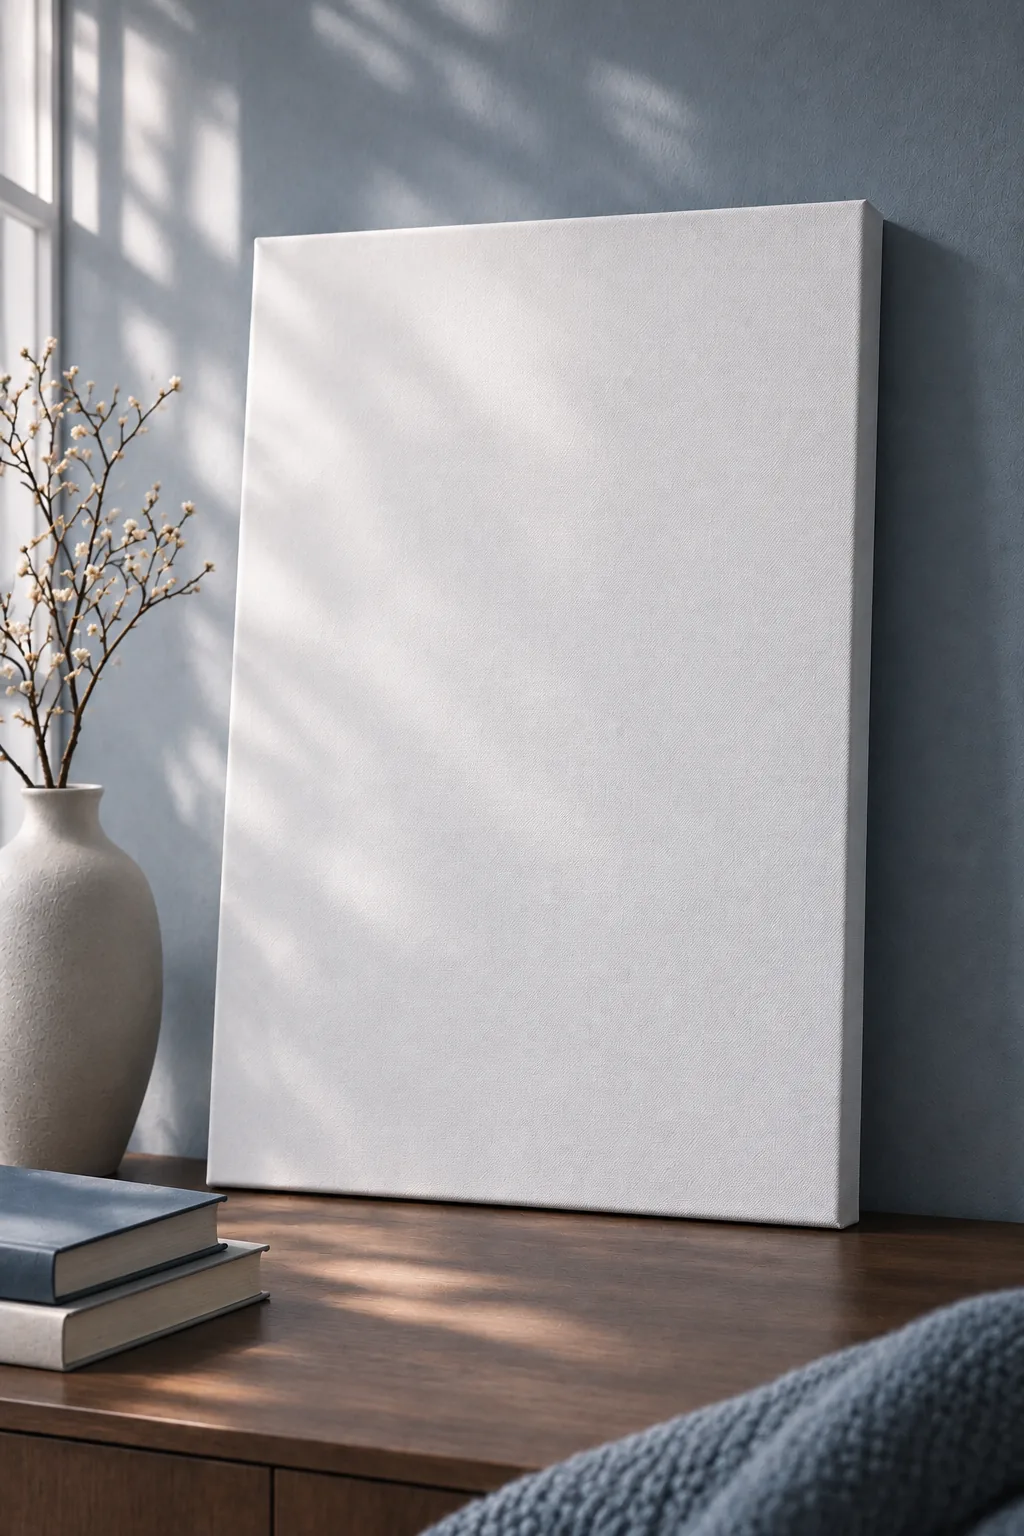
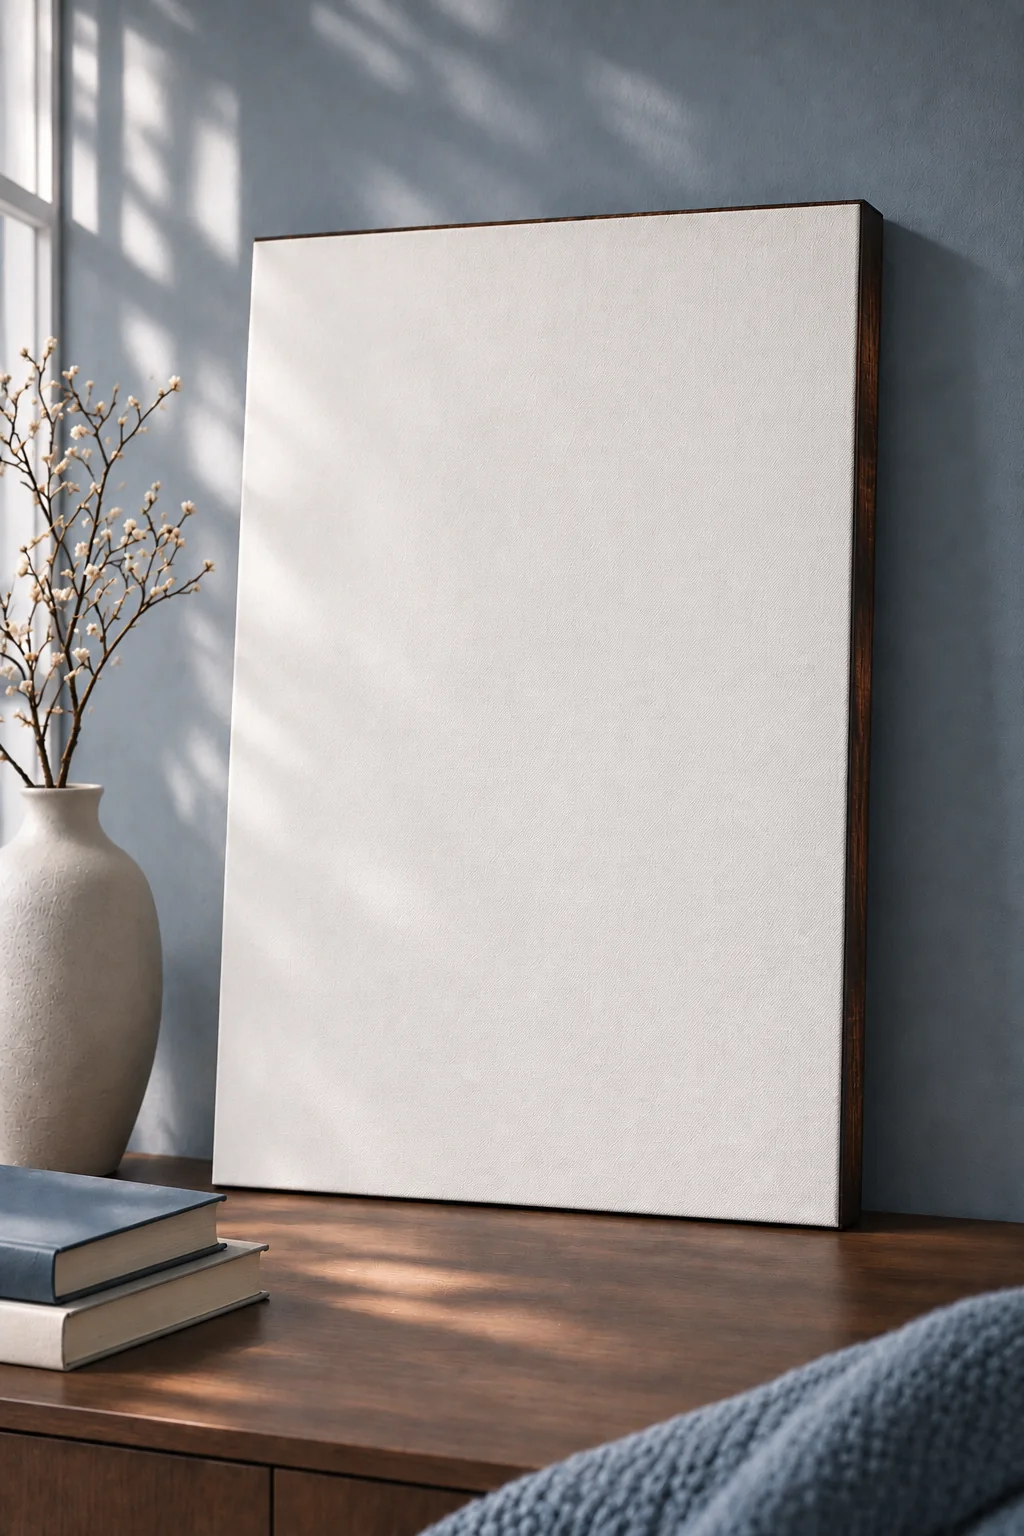
fix(shop): auto-fit poster to frameless mockup with charred walnut edge

diff --git a/components/shop/NemadManMockupGenerator.tsx b/components/shop/NemadManMockupGenerator.tsx
@@ -1,6 +1,6 @@
 'use client';
 
-import { useCallback, useEffect, useRef, useState, type PointerEvent } from 'react';
+import { useCallback, useEffect, useRef, useState } from 'react';
 import styles from './NemadManMockupGenerator.module.css';
 
 type Point = { x: number; y: number };
@@ -9,11 +9,21 @@ type SourceArt = { name: string; image: Blob };
 type Entry = { name: string; data: Uint8Array };
 
 const TEMPLATE = '/shop-preview/nemad-man/mockup-blank-console.webp';
-// Top-left, top-right, bottom-right, bottom-left of the UNFRAMED canvas front.
-const DEFAULT_QUAD: Quad = [
-  { x: 0.250, y: 0.155 }, { x: 0.844, y: 0.131 },
-  { x: 0.816, y: 0.795 }, { x: 0.205, y: 0.774 },
+// Pixel-verified face of the sole, fixed 1024x1536 scene. Corners are NOT user controls.
+// Top-left, top-right, bottom-right, bottom-left: the visible printable surface only.
+const CANVAS_FRONT: Quad = [
+  { x: 254, y: 241 }, { x: 861, y: 204 },
+  { x: 840, y: 1226 }, { x: 211, y: 1186 },
 ];
+// Inverse projective map from output pixels to source artwork UV coordinates.
+// Solved once for CANVAS_FRONT. A single pixel pass avoids strip gaps and seams.
+const INVERSE = [
+  0.00186885322, 0.0000850377655, -0.495182819,
+  0.0000704023501, 0.00115497909, -0.296232159,
+  0.000140701320, 0.0000495277950,
+] as const;
+const OUTPUT_WIDTH = 1024;
+const OUTPUT_HEIGHT = 1536;
 const MAX_ARTS = 300;
 const MAX_ZIP_BYTES = 120 * 1024 * 1024;
 const MAX_UNPACKED_BYTES = 300 * 1024 * 1024;
@@ -177,74 +187,90 @@ function loadImage(src: string): Promise<HTMLImageElement> {
   });
 }
 
-function cover(ctx: CanvasRenderingContext2D, image: CanvasImageSource, width: number, height: number, sw: number, sh: number) {
-  const scale = Math.max(width / sw, height / sh);
-  const cw = width / scale;
-  const ch = height / scale;
-  ctx.drawImage(image, (sw - cw) / 2, (sh - ch) / 2, cw, ch, 0, 0, width, height);
-}
-
-function bilinear(q: Quad, u: number, v: number): Point {
-  return {
-    x: (1-u)*(1-v)*q[0].x + u*(1-v)*q[1].x + u*v*q[2].x + (1-u)*v*q[3].x,
-    y: (1-u)*(1-v)*q[0].y + u*(1-v)*q[1].y + u*v*q[2].y + (1-u)*v*q[3].y,
-  };
-}
-
-function compose(scene: HTMLImageElement, poster: ImageBitmap, quad: Quad): HTMLCanvasElement {
-  const width = 1024;
-  const height = 1536;
+function compose(scene: HTMLImageElement, poster: ImageBitmap): HTMLCanvasElement {
+  const width = OUTPUT_WIDTH;
+  const height = OUTPUT_HEIGHT;
   const canvas = document.createElement('canvas');
   canvas.width = width;
   canvas.height = height;
   const ctx = canvas.getContext('2d');
   if (!ctx) throw new Error('Canvas در این مرورگر قابل استفاده نیست.');
-  cover(ctx, scene, width, height, scene.naturalWidth, scene.naturalHeight);
-  // The original artwork is decoded and projected, never redrawn or text-regenerated.
-  const q = quad.map(p => ({ x: p.x * width, y: p.y * height })) as Quad;
+  ctx.drawImage(scene, 0, 0, width, height);
+
+  // Read the actual uploaded artwork. Never generate or retype its typography.
+  const artCanvas = document.createElement('canvas');
+  artCanvas.width = poster.width;
+  artCanvas.height = poster.height;
+  const artCtx = artCanvas.getContext('2d', { willReadFrequently: true });
+  if (!artCtx) throw new Error('پردازش تصویر اصلی ممکن نیست.');
+  artCtx.drawImage(poster, 0, 0);
+  const pixels = artCtx.getImageData(0, 0, poster.width, poster.height).data;
+  const surface = document.createElement('canvas');
+  surface.width = width;
+  surface.height = height;
+  const surfaceCtx = surface.getContext('2d');
+  if (!surfaceCtx) throw new Error('ساخت سطح شاسی ممکن نیست.');
+  const surfaceImage = surfaceCtx.createImageData(width, height);
+  const output = surfaceImage.data;
+  const [a, b, c, d, e, f, g, h] = INVERSE;
+  const srcW = poster.width;
+  const srcH = poster.height;
+  const minX = Math.floor(Math.min(...CANVAS_FRONT.map(p => p.x)));
+  const maxX = Math.ceil(Math.max(...CANVAS_FRONT.map(p => p.x)));
+  const minY = Math.floor(Math.min(...CANVAS_FRONT.map(p => p.y)));
+  const maxY = Math.ceil(Math.max(...CANVAS_FRONT.map(p => p.y)));
+
+  // One inverse-homography sample per output pixel, with bilinear interpolation.
+  // No row/strip meshes, so joins and corners cannot leave white slivers.
+  for (let y = minY; y <= maxY; y++) {
+    for (let x = minX; x <= maxX; x++) {
+      const px = x + 0.5;
+      const py = y + 0.5;
+      const den = g * px + h * py + 1;
+      const u = (a * px + b * py + c) / den;
+      const v = (d * px + e * py + f) / den;
+      if (u < 0 || v < 0 || u > 1 || v > 1) continue;
+      const sx = u * (srcW - 1);
+      const sy = v * (srcH - 1);
+      const x0 = Math.floor(sx);
+      const y0 = Math.floor(sy);
+      const x1 = Math.min(srcW - 1, x0 + 1);
+      const y1 = Math.min(srcH - 1, y0 + 1);
+      const dx = sx - x0;
+      const dy = sy - y0;
+      const w00 = (1 - dx) * (1 - dy);
+      const w10 = dx * (1 - dy);
+      const w01 = (1 - dx) * dy;
+      const w11 = dx * dy;
+      const p00 = (y0 * srcW + x0) * 4;
+      const p10 = (y0 * srcW + x1) * 4;
+      const p01 = (y1 * srcW + x0) * 4;
+      const p11 = (y1 * srcW + x1) * 4;
+      const dst = (y * width + x) * 4;
+      for (let channel = 0; channel < 4; channel++) {
+        output[dst + channel] = pixels[p00 + channel] * w00 +
+          pixels[p10 + channel] * w10 + pixels[p01 + channel] * w01 +
+          pixels[p11 + channel] * w11;
+      }
+    }
+  }
+  surfaceCtx.putImageData(surfaceImage, 0, 0);
+
+  // Pixel-exact face mask, preserving the dark burned-wood side of the mockup.
   ctx.save();
   ctx.beginPath();
-  ctx.moveTo(q[0].x, q[0].y);
-  ctx.lineTo(q[1].x, q[1].y);
-  ctx.lineTo(q[2].x, q[2].y);
-  ctx.lineTo(q[3].x, q[3].y);
+  ctx.moveTo(CANVAS_FRONT[0].x, CANVAS_FRONT[0].y);
+  for (let i = 1; i < CANVAS_FRONT.length; i++) {
+    ctx.lineTo(CANVAS_FRONT[i].x, CANVAS_FRONT[i].y);
+  }
   ctx.closePath();
   ctx.clip();
-  // Fine strips implement a perspective-ish bilinear quad projection using affine drawing.
-  const strips = 100;
-  for (let n = 0; n < strips; n++) {
-    const u = n / strips;
-    const u1 = (n + 1) / strips;
-    const top = bilinear(q, u, 0);
-    const bottom = bilinear(q, u, 1);
-    const nextTop = bilinear(q, u1, 0);
-    const sx = Math.floor(u * poster.width);
-    const sx2 = Math.ceil(u1 * poster.width);
-    ctx.save();
-    // Local coordinate origin (0,0) maps to the top of this strip.
-    ctx.setTransform((nextTop.x - top.x) / (sx2 - sx),
-      (nextTop.y - top.y) / (sx2 - sx),
-      (bottom.x - top.x) / poster.height,
-      (bottom.y - top.y) / poster.height,
-      top.x, top.y);
-    ctx.drawImage(poster, sx, 0, sx2 - sx, poster.height, 0, 0, sx2 - sx + 1.3, poster.height);
-    ctx.restore();
-  }
-  // Restore a small amount of the original canvas weave and window shading.
-  ctx.save();
+  ctx.drawImage(surface, 0, 0);
+
+  // Subtle illumination from the photographed blank surface, confined to the face.
   ctx.globalCompositeOperation = 'multiply';
-  ctx.globalAlpha = 0.16;
-  cover(ctx, scene, width, height, scene.naturalWidth, scene.naturalHeight);
-  ctx.restore();
-  // Only a small physical lighting veil is applied; text and stars are not regenerated.
-  const gx = Math.min(...q.map(p => p.x));
-  const gw = Math.max(...q.map(p => p.x)) - gx;
-  const light = ctx.createLinearGradient(gx, 0, gx + gw, 0);
-  light.addColorStop(0, 'rgba(247,250,255,0.08)');
-  light.addColorStop(0.42, 'rgba(255,255,255,0)');
-  light.addColorStop(1, 'rgba(20,32,46,0.09)');
-  ctx.fillStyle = light;
-  ctx.fillRect(0, 0, width, height);
+  ctx.globalAlpha = 0.14;
+  ctx.drawImage(scene, 0, 0, width, height);
   ctx.restore();
   return canvas;
 }
@@ -293,25 +319,17 @@ function saveBlob(blob: Blob, name: string) {
 export function NemadManMockupGenerator() {
   const filePicker = useRef<HTMLInputElement>(null);
   const folderPicker = useRef<HTMLInputElement>(null);
-  const scenePicker = useRef<HTMLInputElement>(null);
   const cancel = useRef(false);
   const [arts, setArts] = useState<SourceArt[]>([]);
-  const [sceneUrl, setSceneUrl] = useState(TEMPLATE);
-  const [quad, setQuad] = useState<Quad>(DEFAULT_QUAD);
-  const [editing, setEditing] = useState(false);
   const [previewUrl, setPreviewUrl] = useState<string | null>(null);
   const [error, setError] = useState('');
   const [busy, setBusy] = useState(false);
   const [progress, setProgress] = useState(0);
   const [limitKb, setLimitKb] = useState(70);
-  const [dragging, setDragging] = useState<number | null>(null);
-  const stageRef = useRef<HTMLDivElement>(null);
-  const previousScene = useRef<string | null>(null);
 
   useEffect(() => {
     folderPicker.current?.setAttribute('webkitdirectory', '');
     folderPicker.current?.setAttribute('directory', '');
-    return () => { if (previousScene.current) URL.revokeObjectURL(previousScene.current); };
   }, []);
 
   const importFiles = useCallback(async (files: File[]) => {
@@ -324,27 +342,15 @@ export function NemadManMockupGenerator() {
     } catch (err) { setError(err instanceof Error ? err.message : 'ورود فایلها ناموفق بود.'); }
   }, [busy]);
 
-  const addScene = useCallback((file: File | undefined) => {
-    if (!file || busy || !file.type.startsWith('image/')) return;
-    if (file.size > 20 * 1024 * 1024) { setError('قالب باید زیر ۲۰ مگابایت باشد.'); return; }
-    if (previousScene.current) URL.revokeObjectURL(previousScene.current);
-    const url = URL.createObjectURL(file);
-    previousScene.current = url;
-    setSceneUrl(url);
-    setQuad(DEFAULT_QUAD);
-    setEditing(true);
-    setError('');
-  }, [busy]);
-
   useEffect(() => {
     let ended = false;
     let url: string | null = null;
     if (!arts.length) { setPreviewUrl(null); return; }
     (async () => {
       try {
-        const [scene, poster] = await Promise.all([loadImage(sceneUrl), createImageBitmap(arts[0].image)]);
+        const [scene, poster] = await Promise.all([loadImage(TEMPLATE), createImageBitmap(arts[0].image)]);
         if (poster.width * poster.height > MAX_IMAGE_PIXELS) throw new Error('ابعاد تصویر ورودی خیلی بزرگ است.');
-        const canvas = compose(scene, poster, quad);
+        const canvas = compose(scene, poster);
         poster.close();
         const blob = await encodeWebp(canvas, 0.87);
         url = URL.createObjectURL(blob);
@@ -355,17 +361,7 @@ export function NemadManMockupGenerator() {
       }
     })();
     return () => { ended = true; if (url) URL.revokeObjectURL(url); };
-  }, [arts, sceneUrl, quad]);
-
-  const pointerMove = (event: PointerEvent<HTMLDivElement>) => {
-    if (dragging === null || !stageRef.current) return;
-    const rect = stageRef.current.getBoundingClientRect();
-    const p = {
-      x: Math.min(1, Math.max(0, (event.clientX - rect.left) / rect.width)),
-      y: Math.min(1, Math.max(0, (event.clientY - rect.top) / rect.height)),
-    };
-    setQuad(previous => previous.map((old, index) => index === dragging ? p : old) as Quad);
-  };
+  }, [arts]);
 
   const generate = async () => {
     if (busy || !arts.length) return;
@@ -374,7 +370,7 @@ export function NemadManMockupGenerator() {
     setProgress(0);
     setError('');
     try {
-      const scene = await loadImage(sceneUrl);
+      const scene = await loadImage(TEMPLATE);
       const entries: Entry[] = [];
       for (let i = 0; i < arts.length; i++) {
         if (cancel.current) throw new Error('پردازش متوقف شد؛ خروجی ناقص ذخیره نشد.');
@@ -386,7 +382,7 @@ export function NemadManMockupGenerator() {
           poster.close();
           throw new Error('ابعاد بیش از حد مجاز: ' + art.name);
         }
-        const output = compose(scene, poster, quad);
+        const output = compose(scene, poster);
         poster.close();
         const blob = await smallWebp(output, limitKb * 1000);
         const data = new Uint8Array(await blob.arrayBuffer());
@@ -421,14 +417,8 @@ export function NemadManMockupGenerator() {
           فایلها یا ZIP را اینجا رها کن. پوشهٔ شامل ۷۲ تصویر را هم میتوانی یکجا انتخاب کنی.
         </div>
         <p className={styles.count}>{arts.length ? `${arts.length} تصویر آماده • نمونه: ${arts[0].name}` : 'هنوز تصویری انتخاب نشده است.'}</p>
-        <h2>۲. صحنهٔ موکاپ</h2>
-        <div className={styles.buttons}>
-          <button type="button" className={styles.secondary} disabled={busy} onClick={() => { setSceneUrl(TEMPLATE); setQuad(DEFAULT_QUAD); setEditing(false); }}>کنسولِ آماده</button>
-          <button type="button" className={styles.secondary} disabled={busy} onClick={() => scenePicker.current?.click()}>بارگذاری صحنهٔ خالیِ خودم</button>
-        </div>
-        <input ref={scenePicker} className={styles.hidden} type="file" accept="image/*" onChange={e => { addScene(e.target.files?.[0]); e.target.value = ''; }} />
-        <button type="button" className={styles.textButton} disabled={busy} onClick={() => setEditing(!editing)}>{editing ? 'بستن ویرایش چهار گوشه' : 'تنظیم چهار گوشهٔ شاسی'}</button>
-        <p className={styles.tip}>برای صحنهٔ دلخواه، عکسی با شاسی سفید و بدون طرح انتخاب کن؛ چهار دستگیره را روی گوشههای سطح چاپ ببر.</p>
+        <h2>۲. شاسی آماده و خودکار</h2>
+        <p className={styles.tip}>جای طرح روی شاسی ثابت و دقیق است؛ بدون تنظیم دستی گوشهها. لبهٔ برش چوبی قهوهای خیلی تیره دارد و طرح اصلی دستنخورده میماند.</p>
         <h2>۳. خروجی نهایی</h2>
         <label className={styles.inlineLabel}>سقف هر WebP
           <select disabled={busy} value={limitKb} onChange={e => setLimitKb(Number(e.target.value))}>
@@ -446,19 +436,10 @@ export function NemadManMockupGenerator() {
       </section>
       <section className={styles.panel}>
         <div className={styles.previewHead}><h2>پیشنمایش اولین تصویر</h2><span>۲:۳</span></div>
-        <div className={styles.stage} ref={stageRef}
-          onPointerMove={pointerMove}
-          onPointerUp={() => setDragging(null)}
-          onPointerCancel={() => setDragging(null)}>
-          {/* Artwork pixels are incorporated into the raster preview, not regenerated. */}
+        <div className={styles.stage}>
+          {/* The original uploaded artwork is projected; no AI rendering of text or stars. */}
           {/* eslint-disable-next-line @next/next/no-img-element */}
-          <img alt="پیشنمایش شاسی" src={previewUrl || sceneUrl} />
-          {editing && <>{quad.map((p, index) => <button key={index} type="button"
-            className={styles.handle}
-            style={{ left: `${p.x * 100}%`, top: `${p.y * 100}%` }}
-            aria-label={`گوشهٔ ${index + 1}`}
-            onPointerDown={e => { setDragging(index); e.currentTarget.parentElement?.setPointerCapture(e.pointerId); }}
-          >{index + 1}</button>)}</>}
+          <img alt="پیشنمایش خودکار شاسی بدون قاب" src={previewUrl || TEMPLATE} />
         </div>
         <p className={styles.previewFoot}>{arts.length ? 'طرح اولین فایل ورودی روی صحنه نشان داده میشود.' : 'ابتدا تصاویر خودت را انتخاب کن تا طرح واقعی نمایش داده شود.'}</p>
       </section>

diff --git a/components/shop/NemadManMockupGenerator.module.css b/components/shop/NemadManMockupGenerator.module.css
@@ -17,7 +17,6 @@
 .drop { border:1px dashed #9aaebf; border-radius:14px; padding:26px 18px; margin:14px 0 10px; text-align:center; line-height:1.9; color:#52657a; background:#f8fafc; }
 .count { font-size:14px; overflow-wrap:anywhere; color:#315b7d; }
 .tip { font-size:13px; color:#64748b; line-height:1.9; margin-top:12px; }
-.textButton { margin-top:13px; background:transparent; border:none; padding:0; cursor:pointer; color:#315b7d; text-decoration:underline; font:inherit; }
 .inlineLabel { display:flex; align-items:center; gap:15px; margin-bottom:14px; }
 .inlineLabel select { border:1px solid #bcccdc; background:#fff; border-radius:9px; padding:8px; font:inherit; }
 .progress { margin-top:15px; font-weight:600; }
@@ -25,8 +24,7 @@
 .error { color:#9d2626; background:#fff3f3; border-radius:10px; padding:12px; line-height:1.8; }
 .previewHead { display:flex; justify-content:space-between; align-items:center; }
 .previewHead span { color:#64748b; font:600 13px system-ui; }
-.stage { width:min(100%,520px); aspect-ratio:2/3; margin:0 auto; position:relative; overflow:hidden; background:#d9eafd; border-radius:12px; touch-action:none; }
+.stage { width:min(100%,520px); aspect-ratio:2/3; margin:0 auto; position:relative; overflow:hidden; background:#d9eafd; border-radius:12px; }
 .stage img { width:100%; height:100%; display:block; object-fit:cover; }
-.handle { position:absolute; transform:translate(-50%,-50%); border:2px solid white; color:white; background:#315b7d; box-shadow:0 2px 8px #0005; border-radius:50%; width:32px; height:32px; cursor:grab; touch-action:none; font:700 13px system-ui; }
 .previewFoot { color:#64748b; text-align:center; font-size:13px; line-height:1.8; }
 @media(max-width:800px) { .grid{grid-template-columns:minmax(0,1fr)} .panel{padding:16px} .shell{padding-top:23px} }
